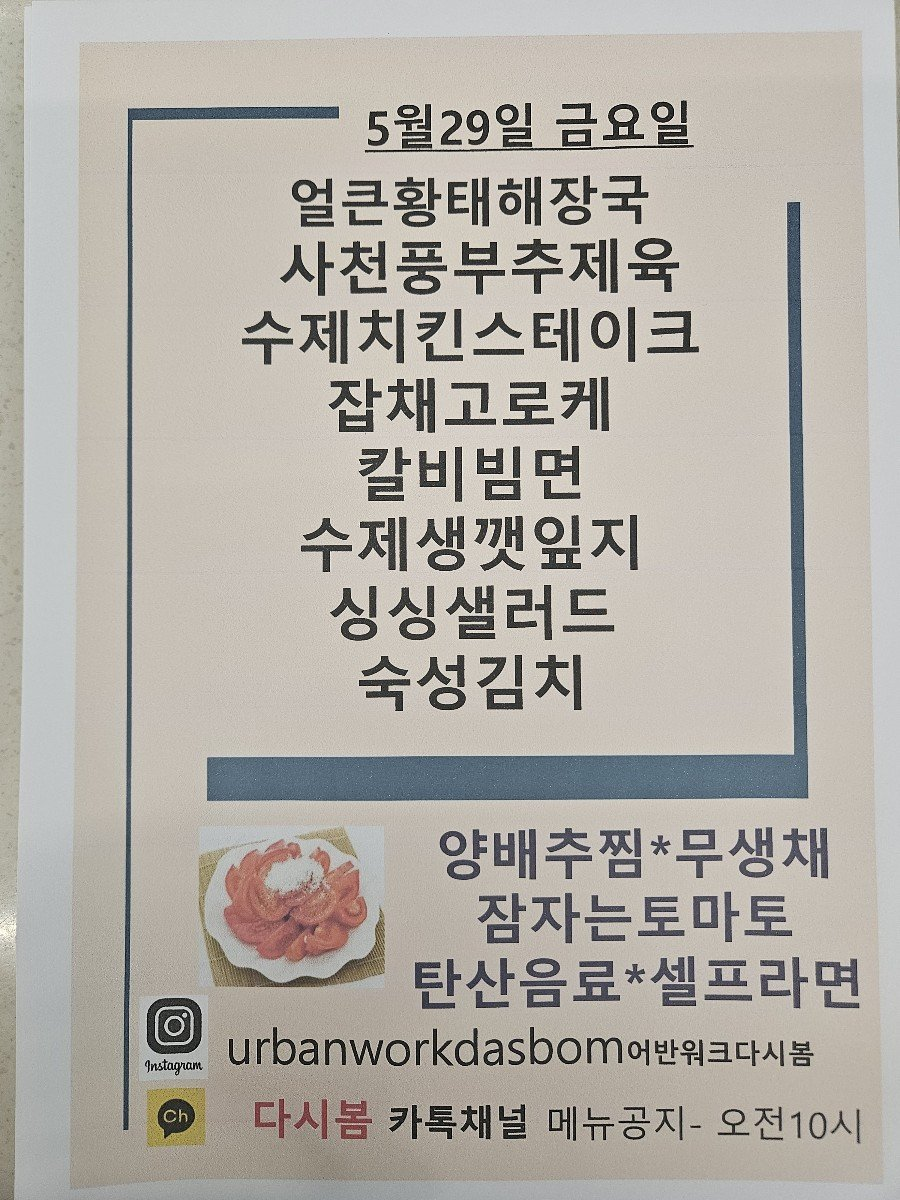
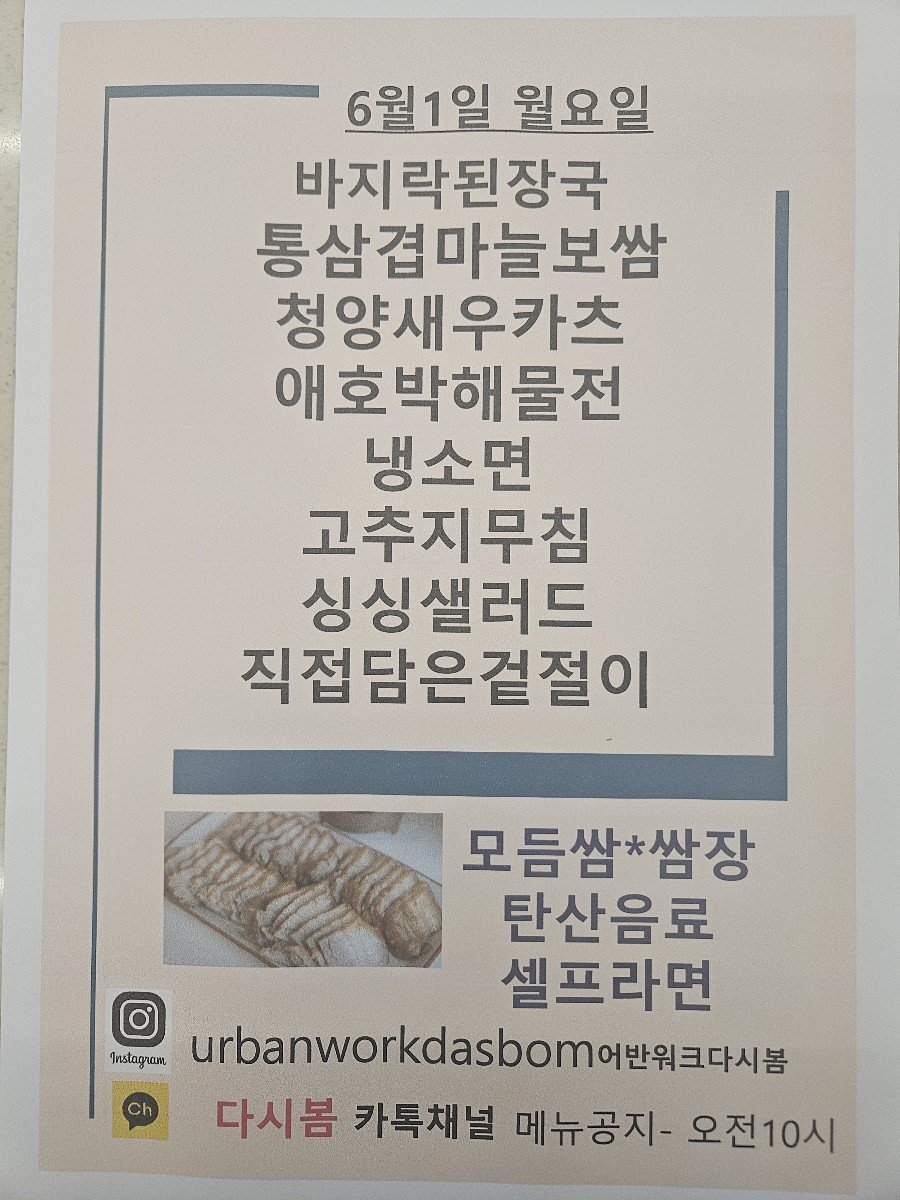
Update menu board assets

diff --git a/menu-today/index.html b/menu-today/index.html
@@ -209,7 +209,7 @@
 
     <section class="meta-bar">
       <div class="meta-card"><div class="meta-label">기준 날짜</div><div class="meta-value">2026년 6월 1일 월요일</div></div>
-      <div class="meta-card"><div class="meta-label">최종 가져온 시간</div><div class="meta-value">2026-06-01 09:32:55</div></div>
+      <div class="meta-card"><div class="meta-label">최종 가져온 시간</div><div class="meta-value">2026-06-01 09:48:07</div></div>
       <div class="meta-card"><div class="meta-label">확인 완료</div><div class="meta-value">10개 식당</div></div>
       <div class="meta-card"><div class="meta-label">준비중</div><div class="meta-value">3개 채널</div></div>
     </section>
@@ -235,7 +235,7 @@
             <div class="sub">가산 어반워크</div>
           </div>
         </div>
-        <div class="menu-inline-image"><img src="./images/dasibom.png" alt="다시 봄 식단 이미지"></div><ul><li>얼큰황태해장국</li><li>&#x27; 사천풍부추제육</li><li>수제치킨스테이크</li><li>잡채고로케</li><li>칼비빔면</li><li>싱싱샐러드</li><li>숙성김치</li><li>사천풍부추제육</li></ul>
+        <div class="menu-inline-image"><img src="./images/dasibom.png" alt="다시 봄 식단 이미지"></div><ul><li>통삼겹마늘보쌈</li><li>; 청양새우카즈</li><li>애호박해물전</li><li>싱싱샐러드</li><li>; 직접담은겉절이</li></ul>
       </article>
 
       <article class="restaurant-card">
